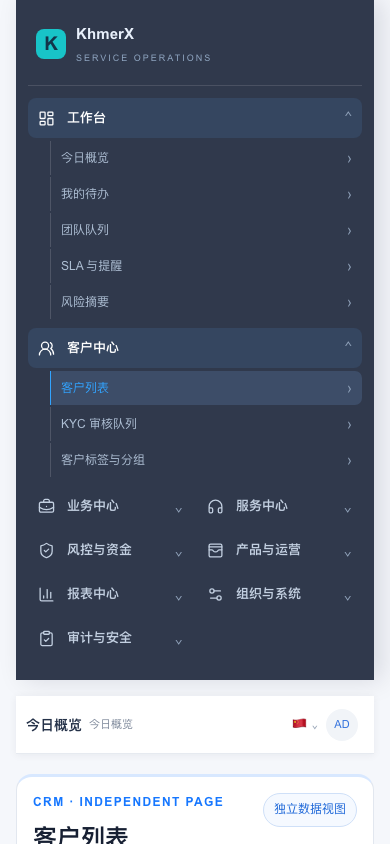
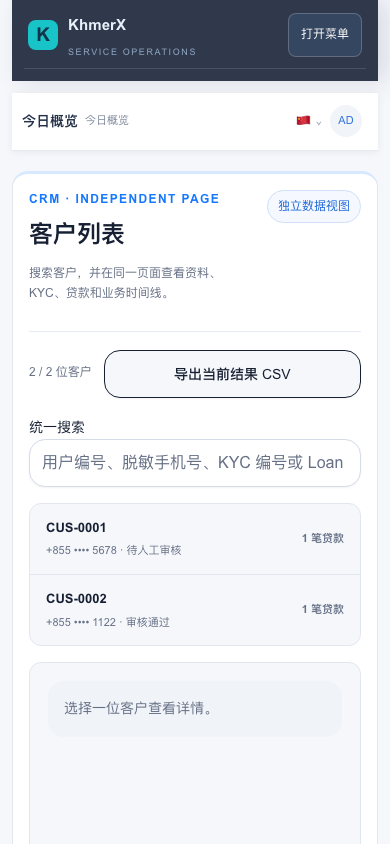
docs: refresh UI-FIX-3 mobile evidence

diff --git a/docs/review/ui-fix-3-customer-loan-reports-20261102.md b/docs/review/ui-fix-3-customer-loan-reports-20261102.md
@@ -2,15 +2,19 @@
 
 Date: 2026-11-02 (Asia/Phnom Penh)
 
-Before captures use `origin/main` at `3983e3d`; after captures use `feat/ui/fix-3-customer-loan-reports` at `48f30b3`. Playwright used synthetic local identity headers and route-mocked `/api/team` and `/api/state` responses; no production or remote service was contacted. All captures are first-screen screenshots with `fullPage: false`.
+Before captures use merged `origin/main` at `1d3a282` (after PR #162); after captures use `feat/ui/fix-3-customer-loan-reports` at `55a8d39`. Playwright used synthetic local identity headers and route-mocked `/api/team` and `/api/state` responses; no production or remote service was contacted. All captures are 390×844 first-screen screenshots with `fullPage: false`, the CRM menu collapsed (`打开菜单` visible), and `scrollY: 0` after the first matching row was brought into view.
 
 ## Capture matrix
 
 | Page | Viewport | Before | After | SHA-256 before / after |
 |---|---:|---|---|---|
[6 lines of base64/hex data omitted]
 
-The mobile first-screen captures are intentionally unchanged where the existing CRM sidebar occupies the viewport; the responsive row and button changes are covered by the shared styles and by the desktop capture, while the 390px dimensions and first-screen state remain recorded honestly.
+## Mobile verification
+
+- Customer list: both before and after show two visible `OperatorRow` customer rows (`CUS-0001`, `CUS-0002`), the first row is visible without horizontal overflow, and the menu remains collapsed. The after capture reflects the merged #162 mobile sidebar behavior.
+- Report center: all four KPI `OperatorRow` cards are visible before and after, with the collapsed menu and no horizontal overflow.
+- The rendered customer-list and report-center rows do not receive `actions` props in this PR, so no vertical action-button stack is present in these two screenshots. This is recorded as a verification gap rather than inferred from CSS; the requested action-button evidence cannot be claimed by these captures.
